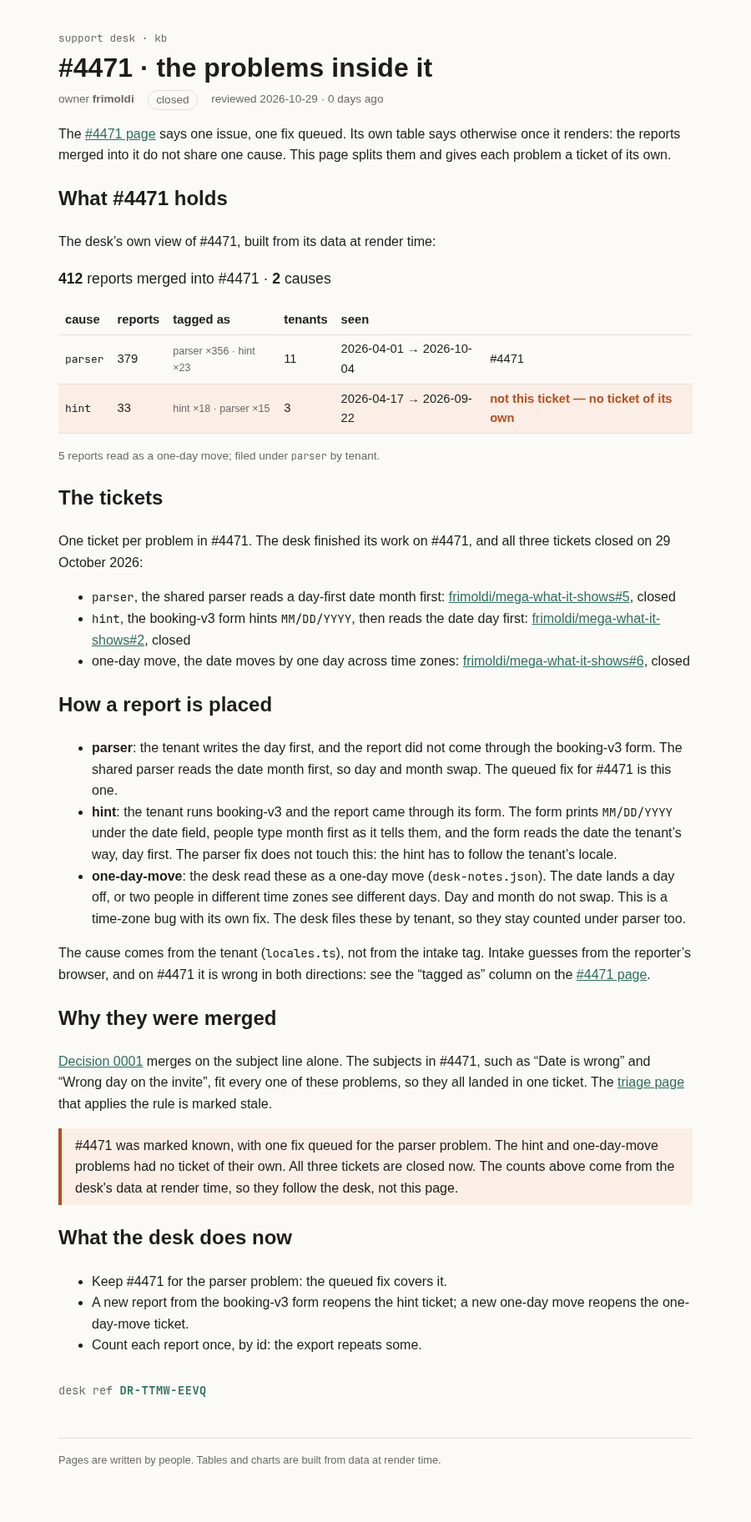
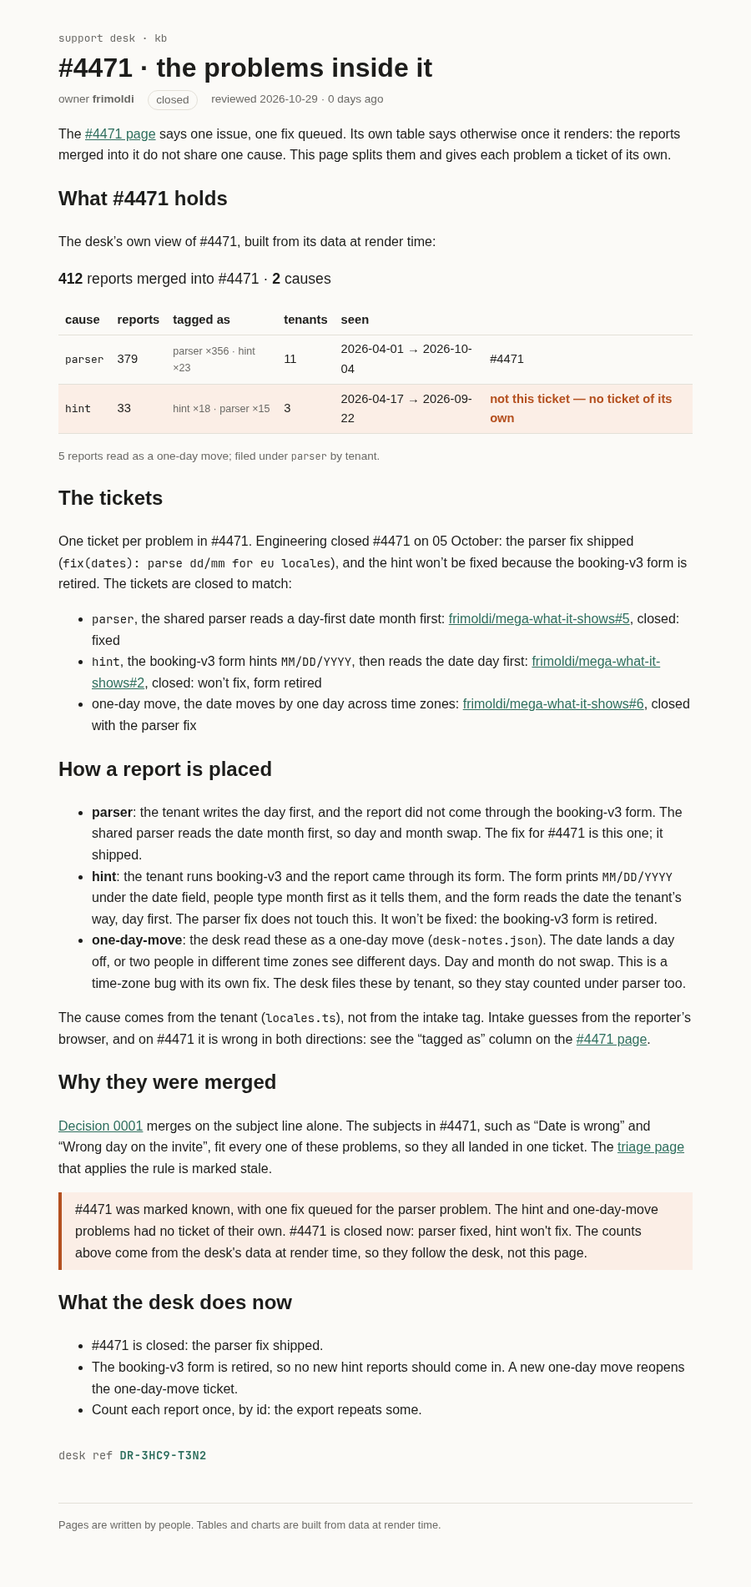
Sign the page with the course ticket; record the desk update
The page's signature is now the ticket the course issued, so its desk
ref changes to DR-3HC9-T3N2. The page records engineering's update:
#4471 closed 05 Oct, parser fixed, hint won't fix (booking-v3 form
retired). Rebuilt support-kb/build/ and rendered/.

Changed region(s): [[0.0622, 0.0312, 0.9022, 0.9682], [0.6533, 0.2186, 0.9022, 0.2811], [0.56, 0.2186, 0.6222, 0.2811]]

diff --git a/support-kb/build/kb/incidents/4471-problems/index.html b/support-kb/build/kb/incidents/4471-problems/index.html
@@ -9,11 +9,11 @@
 		<link href="../../../_app/immutable/chunks/B2Ul7l_u.js" rel="modulepreload">
 		<link href="../../../_app/immutable/chunks/BCPXOG7W.js" rel="modulepreload">
 		<link href="../../../_app/immutable/chunks/Dh1V97Jm.js" rel="modulepreload">
-		<link href="../../../_app/immutable/entry/app.l7u95bJy.js" rel="modulepreload">
+		<link href="../../../_app/immutable/entry/app.CHuWSfQY.js" rel="modulepreload">
 		<link href="../../../_app/immutable/nodes/0.BurGglGN.js" rel="modulepreload">
 		<link href="../../../_app/immutable/chunks/DK3Fl9T5.js" rel="modulepreload">
-		<link href="../../../_app/immutable/nodes/5.2zHYgrvD.js" rel="modulepreload">
-		<link href="../../../_app/immutable/chunks/DAiCEZpE.js" rel="modulepreload">
+		<link href="../../../_app/immutable/nodes/5.JyNISHoA.js" rel="modulepreload">
+		<link href="../../../_app/immutable/chunks/Cf7H7m81.js" rel="modulepreload">
 		<link href="../../../_app/immutable/chunks/BTPwLomz.js" rel="modulepreload">
 		<link href="../../../_app/immutable/chunks/D_eX76ox.js" rel="modulepreload">
 		<link href="../../../_app/immutable/chunks/BIy4WKJS.js" rel="modulepreload">
@@ -34,12 +34,13 @@ aside.svelte-17bri61{border-left:4px solid var(--accent);background:var(--note-b
   <body>
     <div style="display: contents"><!--[--><!--[--><!--[0--><!--[--><!--[--><!--[-1--><!--[--><div class="kb svelte-e2jw2j"><header><a class="crumb svelte-e2jw2j" href="/kb">support desk · kb</a> <h1 class="svelte-e2jw2j">#4471 · the problems inside it</h1> <p class="meta svelte-e2jw2j"><span>owner <b>frimoldi</b></span> <span class="status closed svelte-e2jw2j">closed</span> <span class="svelte-e2jw2j">reviewed 2026-10-29 · 0 days ago</span></p></header> <!--[-1--><!--]--> <main><p>The <a href="/kb/incidents/4471">#4471 page</a> says one issue, one fix queued. Its own table says
 otherwise once it renders: the reports merged into it do not share one cause. This page splits
-them and gives each problem a ticket of its own.</p> <h2>What #4471 holds</h2> <p>The desk’s own view of #4471, built from its data at render time:</p> <p class="sum svelte-12oyimm"><strong>412</strong> reports merged into #4471 · <strong>2</strong> causes</p> <table><thead><tr><th>cause</th><th>reports</th><th>tagged as</th><th>tenants</th><th>seen</th><th></th></tr></thead><tbody><!--[--><tr class="svelte-12oyimm"><td class="svelte-12oyimm"><code>parser</code></td><td class="svelte-12oyimm">379</td><td class="tags svelte-12oyimm">parser ×356 · hint ×23</td><td class="svelte-12oyimm">11</td><td class="svelte-12oyimm">2026-04-01 → 2026-10-04</td><td class="svelte-12oyimm">#4471</td></tr><tr class="svelte-12oyimm wrong"><td class="svelte-12oyimm"><code>hint</code></td><td class="svelte-12oyimm">33</td><td class="tags svelte-12oyimm">hint ×18 · parser ×15</td><td class="svelte-12oyimm">3</td><td class="svelte-12oyimm">2026-04-17 → 2026-09-22</td><td class="svelte-12oyimm">not this ticket — no ticket of its own</td></tr><!--]--></tbody></table> <!--[--><!--[0--><p class="note svelte-12oyimm">5 reports read as a one-day move; filed under <code>parser</code> by tenant.</p><!--]--><!--[-1--><!--]--><!--]--><!----> <h2>The tickets</h2> <p>One ticket per problem in #4471. The desk finished its work on #4471, and all three
-tickets closed on 29 October 2026:</p> <ul><li><code>parser</code>, the shared parser reads a day-first date month first: <a href="https://github.com/frimoldi/mega-what-it-shows/issues/5" rel="nofollow">frimoldi/mega-what-it-shows#5</a>, closed</li> <li><code>hint</code>, the booking-v3 form hints <code>MM/DD/YYYY</code>, then reads the date day first: <a href="https://github.com/frimoldi/mega-what-it-shows/issues/2" rel="nofollow">frimoldi/mega-what-it-shows#2</a>, closed</li> <li>one-day move, the date moves by one day across time zones: <a href="https://github.com/frimoldi/mega-what-it-shows/issues/6" rel="nofollow">frimoldi/mega-what-it-shows#6</a>, closed</li></ul> <h2>How a report is placed</h2> <ul><li><strong>parser</strong>: the tenant writes the day first, and the report did not come through the
+them and gives each problem a ticket of its own.</p> <h2>What #4471 holds</h2> <p>The desk’s own view of #4471, built from its data at render time:</p> <p class="sum svelte-12oyimm"><strong>412</strong> reports merged into #4471 · <strong>2</strong> causes</p> <table><thead><tr><th>cause</th><th>reports</th><th>tagged as</th><th>tenants</th><th>seen</th><th></th></tr></thead><tbody><!--[--><tr class="svelte-12oyimm"><td class="svelte-12oyimm"><code>parser</code></td><td class="svelte-12oyimm">379</td><td class="tags svelte-12oyimm">parser ×356 · hint ×23</td><td class="svelte-12oyimm">11</td><td class="svelte-12oyimm">2026-04-01 → 2026-10-04</td><td class="svelte-12oyimm">#4471</td></tr><tr class="svelte-12oyimm wrong"><td class="svelte-12oyimm"><code>hint</code></td><td class="svelte-12oyimm">33</td><td class="tags svelte-12oyimm">hint ×18 · parser ×15</td><td class="svelte-12oyimm">3</td><td class="svelte-12oyimm">2026-04-17 → 2026-09-22</td><td class="svelte-12oyimm">not this ticket — no ticket of its own</td></tr><!--]--></tbody></table> <!--[--><!--[0--><p class="note svelte-12oyimm">5 reports read as a one-day move; filed under <code>parser</code> by tenant.</p><!--]--><!--[-1--><!--]--><!--]--><!----> <h2>The tickets</h2> <p>One ticket per problem in #4471. Engineering closed #4471 on 05 October: the parser fix shipped
+(<code>fix(dates): parse dd/mm for eu locales</code>), and the hint won’t be fixed because the booking-v3
+form is retired. The tickets are closed to match:</p> <ul><li><code>parser</code>, the shared parser reads a day-first date month first: <a href="https://github.com/frimoldi/mega-what-it-shows/issues/5" rel="nofollow">frimoldi/mega-what-it-shows#5</a>, closed: fixed</li> <li><code>hint</code>, the booking-v3 form hints <code>MM/DD/YYYY</code>, then reads the date day first: <a href="https://github.com/frimoldi/mega-what-it-shows/issues/2" rel="nofollow">frimoldi/mega-what-it-shows#2</a>, closed: won’t fix, form retired</li> <li>one-day move, the date moves by one day across time zones: <a href="https://github.com/frimoldi/mega-what-it-shows/issues/6" rel="nofollow">frimoldi/mega-what-it-shows#6</a>, closed with the parser fix</li></ul> <h2>How a report is placed</h2> <ul><li><strong>parser</strong>: the tenant writes the day first, and the report did not come through the
 booking-v3 form. The shared parser reads the date month first, so day and month swap. The
-queued fix for #4471 is this one.</li> <li><strong>hint</strong>: the tenant runs booking-v3 and the report came through its form. The form prints <code>MM/DD/YYYY</code> under the date field, people type month first as it tells them, and the form
-reads the date the tenant’s way, day first. The parser fix does not touch this: the hint has
-to follow the tenant’s locale.</li> <li><strong>one-day-move</strong>: the desk read these as a one-day move (<code>desk-notes.json</code>). The date lands
+fix for #4471 is this one; it shipped.</li> <li><strong>hint</strong>: the tenant runs booking-v3 and the report came through its form. The form prints <code>MM/DD/YYYY</code> under the date field, people type month first as it tells them, and the form
+reads the date the tenant’s way, day first. The parser fix does not touch this. It won’t be
+fixed: the booking-v3 form is retired.</li> <li><strong>one-day-move</strong>: the desk read these as a one-day move (<code>desk-notes.json</code>). The date lands
 a day off, or two people in different time zones see different days. Day and month do not
 swap. This is a time-zone bug with its own fix. The desk files these by tenant, so they stay
 counted under parser too.</li></ul> <p>The cause comes from the tenant (<code>locales.ts</code>), not from the intake tag. Intake guesses from
@@ -48,22 +49,22 @@ column on the <a href="/kb/incidents/4471">#4471 page</a>.</p> <h2>Why they were
 subjects in #4471, such as “Date is wrong” and “Wrong day on the invite”, fit every one of
 these problems, so they all landed in one ticket. The <a href="/kb/triage/dedupe">triage page</a> that applies
 the rule is marked stale.</p> <aside class="warn svelte-17bri61"><!---->#4471 was marked known, with one fix queued for the parser problem. The hint and one-day-move
-problems had no ticket of their own. All three tickets are closed now. The counts above come
-from the desk's data at render time, so they follow the desk, not this page.<!----></aside><!----> <h2>What the desk does now</h2> <ul><li>Keep #4471 for the parser problem: the queued fix covers it.</li> <li>A new report from the booking-v3 form reopens the hint ticket; a new one-day move reopens the
-one-day-move ticket.</li> <li>Count each report once, by id: the export repeats some.</li></ul> <!--[0--><p class="stamp svelte-1280m42">desk ref <b class="svelte-1280m42">DR-TTMW-EEVQ</b></p><!--]--><!----><!----></main> <footer class="svelte-e2jw2j">Pages are written by people. Tables and charts are built from data at render time.</footer></div><!--]--><!--]--><!--]--><!----><!--]--><!--]--><!--]--><!----> <!--[-1--><!--]--><!--]-->
+problems had no ticket of their own. #4471 is closed now: parser fixed, hint won't fix. The
+counts above come from the desk's data at render time, so they follow the desk, not this page.<!----></aside><!----> <h2>What the desk does now</h2> <ul><li>#4471 is closed: the parser fix shipped.</li> <li>The booking-v3 form is retired, so no new hint reports should come in. A new one-day move
+reopens the one-day-move ticket.</li> <li>Count each report once, by id: the export repeats some.</li></ul> <!--[0--><p class="stamp svelte-1280m42">desk ref <b class="svelte-1280m42">DR-3HC9-T3N2</b></p><!--]--><!----><!----></main> <footer class="svelte-e2jw2j">Pages are written by people. Tables and charts are built from data at render time.</footer></div><!--]--><!--]--><!--]--><!----><!--]--><!--]--><!--]--><!----> <!--[-1--><!--]--><!--]-->
 			
 			<script>
 				{
-					__sveltekit_z9ygvl = {
+					__sveltekit_1bfk9to = {
 						base: new URL("../../..", location).pathname.slice(0, -1),
-						version: "1793269375051"
+						version: "1793270211310"
 					};
 
 					const element = document.currentScript.parentElement;
 
 					import("../../../_app/immutable/entry/start.CH5w6lId.js").then(async (kit) => {
-						kit.init(__sveltekit_z9ygvl);
-						const app = await import("../../../_app/immutable/entry/app.l7u95bJy.js");
+						kit.init(__sveltekit_1bfk9to);
+						const app = await import("../../../_app/immutable/entry/app.CHuWSfQY.js");
 						kit.start(app, element, {
 							node_ids: [0, 5],
 							data: [null,null],

diff --git a/rendered/4471-problems.html b/rendered/4471-problems.html
@@ -20,12 +20,13 @@ aside.svelte-17bri61{border-left:4px solid var(--accent);background:var(--note-b
   <body>
     <div style="display: contents"><!--[--><!--[--><!--[0--><!--[--><!--[--><!--[-1--><!--[--><div class="kb svelte-e2jw2j"><header><a class="crumb svelte-e2jw2j" href="/kb">support desk · kb</a> <h1 class="svelte-e2jw2j">#4471 · the problems inside it</h1> <p class="meta svelte-e2jw2j"><span>owner <b>frimoldi</b></span> <span class="status closed svelte-e2jw2j">closed</span> <span class="svelte-e2jw2j">reviewed 2026-10-29 · 0 days ago</span></p></header> <!--[-1--><!--]--> <main><p>The <a href="/kb/incidents/4471">#4471 page</a> says one issue, one fix queued. Its own table says
 otherwise once it renders: the reports merged into it do not share one cause. This page splits
-them and gives each problem a ticket of its own.</p> <h2>What #4471 holds</h2> <p>The desk’s own view of #4471, built from its data at render time:</p> <p class="sum svelte-12oyimm"><strong>412</strong> reports merged into #4471 · <strong>2</strong> causes</p> <table><thead><tr><th>cause</th><th>reports</th><th>tagged as</th><th>tenants</th><th>seen</th><th></th></tr></thead><tbody><!--[--><tr class="svelte-12oyimm"><td class="svelte-12oyimm"><code>parser</code></td><td class="svelte-12oyimm">379</td><td class="tags svelte-12oyimm">parser ×356 · hint ×23</td><td class="svelte-12oyimm">11</td><td class="svelte-12oyimm">2026-04-01 → 2026-10-04</td><td class="svelte-12oyimm">#4471</td></tr><tr class="svelte-12oyimm wrong"><td class="svelte-12oyimm"><code>hint</code></td><td class="svelte-12oyimm">33</td><td class="tags svelte-12oyimm">hint ×18 · parser ×15</td><td class="svelte-12oyimm">3</td><td class="svelte-12oyimm">2026-04-17 → 2026-09-22</td><td class="svelte-12oyimm">not this ticket — no ticket of its own</td></tr><!--]--></tbody></table> <!--[--><!--[0--><p class="note svelte-12oyimm">5 reports read as a one-day move; filed under <code>parser</code> by tenant.</p><!--]--><!--[-1--><!--]--><!--]--><!----> <h2>The tickets</h2> <p>One ticket per problem in #4471. The desk finished its work on #4471, and all three
-tickets closed on 29 October 2026:</p> <ul><li><code>parser</code>, the shared parser reads a day-first date month first: <a href="https://github.com/frimoldi/mega-what-it-shows/issues/5" rel="nofollow">frimoldi/mega-what-it-shows#5</a>, closed</li> <li><code>hint</code>, the booking-v3 form hints <code>MM/DD/YYYY</code>, then reads the date day first: <a href="https://github.com/frimoldi/mega-what-it-shows/issues/2" rel="nofollow">frimoldi/mega-what-it-shows#2</a>, closed</li> <li>one-day move, the date moves by one day across time zones: <a href="https://github.com/frimoldi/mega-what-it-shows/issues/6" rel="nofollow">frimoldi/mega-what-it-shows#6</a>, closed</li></ul> <h2>How a report is placed</h2> <ul><li><strong>parser</strong>: the tenant writes the day first, and the report did not come through the
+them and gives each problem a ticket of its own.</p> <h2>What #4471 holds</h2> <p>The desk’s own view of #4471, built from its data at render time:</p> <p class="sum svelte-12oyimm"><strong>412</strong> reports merged into #4471 · <strong>2</strong> causes</p> <table><thead><tr><th>cause</th><th>reports</th><th>tagged as</th><th>tenants</th><th>seen</th><th></th></tr></thead><tbody><!--[--><tr class="svelte-12oyimm"><td class="svelte-12oyimm"><code>parser</code></td><td class="svelte-12oyimm">379</td><td class="tags svelte-12oyimm">parser ×356 · hint ×23</td><td class="svelte-12oyimm">11</td><td class="svelte-12oyimm">2026-04-01 → 2026-10-04</td><td class="svelte-12oyimm">#4471</td></tr><tr class="svelte-12oyimm wrong"><td class="svelte-12oyimm"><code>hint</code></td><td class="svelte-12oyimm">33</td><td class="tags svelte-12oyimm">hint ×18 · parser ×15</td><td class="svelte-12oyimm">3</td><td class="svelte-12oyimm">2026-04-17 → 2026-09-22</td><td class="svelte-12oyimm">not this ticket — no ticket of its own</td></tr><!--]--></tbody></table> <!--[--><!--[0--><p class="note svelte-12oyimm">5 reports read as a one-day move; filed under <code>parser</code> by tenant.</p><!--]--><!--[-1--><!--]--><!--]--><!----> <h2>The tickets</h2> <p>One ticket per problem in #4471. Engineering closed #4471 on 05 October: the parser fix shipped
+(<code>fix(dates): parse dd/mm for eu locales</code>), and the hint won’t be fixed because the booking-v3
+form is retired. The tickets are closed to match:</p> <ul><li><code>parser</code>, the shared parser reads a day-first date month first: <a href="https://github.com/frimoldi/mega-what-it-shows/issues/5" rel="nofollow">frimoldi/mega-what-it-shows#5</a>, closed: fixed</li> <li><code>hint</code>, the booking-v3 form hints <code>MM/DD/YYYY</code>, then reads the date day first: <a href="https://github.com/frimoldi/mega-what-it-shows/issues/2" rel="nofollow">frimoldi/mega-what-it-shows#2</a>, closed: won’t fix, form retired</li> <li>one-day move, the date moves by one day across time zones: <a href="https://github.com/frimoldi/mega-what-it-shows/issues/6" rel="nofollow">frimoldi/mega-what-it-shows#6</a>, closed with the parser fix</li></ul> <h2>How a report is placed</h2> <ul><li><strong>parser</strong>: the tenant writes the day first, and the report did not come through the
 booking-v3 form. The shared parser reads the date month first, so day and month swap. The
-queued fix for #4471 is this one.</li> <li><strong>hint</strong>: the tenant runs booking-v3 and the report came through its form. The form prints <code>MM/DD/YYYY</code> under the date field, people type month first as it tells them, and the form
-reads the date the tenant’s way, day first. The parser fix does not touch this: the hint has
-to follow the tenant’s locale.</li> <li><strong>one-day-move</strong>: the desk read these as a one-day move (<code>desk-notes.json</code>). The date lands
+fix for #4471 is this one; it shipped.</li> <li><strong>hint</strong>: the tenant runs booking-v3 and the report came through its form. The form prints <code>MM/DD/YYYY</code> under the date field, people type month first as it tells them, and the form
+reads the date the tenant’s way, day first. The parser fix does not touch this. It won’t be
+fixed: the booking-v3 form is retired.</li> <li><strong>one-day-move</strong>: the desk read these as a one-day move (<code>desk-notes.json</code>). The date lands
 a day off, or two people in different time zones see different days. Day and month do not
 swap. This is a time-zone bug with its own fix. The desk files these by tenant, so they stay
 counted under parser too.</li></ul> <p>The cause comes from the tenant (<code>locales.ts</code>), not from the intake tag. Intake guesses from
@@ -34,9 +35,9 @@ column on the <a href="/kb/incidents/4471">#4471 page</a>.</p> <h2>Why they were
 subjects in #4471, such as “Date is wrong” and “Wrong day on the invite”, fit every one of
 these problems, so they all landed in one ticket. The <a href="/kb/triage/dedupe">triage page</a> that applies
 the rule is marked stale.</p> <aside class="warn svelte-17bri61"><!---->#4471 was marked known, with one fix queued for the parser problem. The hint and one-day-move
-problems had no ticket of their own. All three tickets are closed now. The counts above come
-from the desk's data at render time, so they follow the desk, not this page.<!----></aside><!----> <h2>What the desk does now</h2> <ul><li>Keep #4471 for the parser problem: the queued fix covers it.</li> <li>A new report from the booking-v3 form reopens the hint ticket; a new one-day move reopens the
-one-day-move ticket.</li> <li>Count each report once, by id: the export repeats some.</li></ul> <!--[0--><p class="stamp svelte-1280m42">desk ref <b class="svelte-1280m42">DR-TTMW-EEVQ</b></p><!--]--><!----><!----></main> <footer class="svelte-e2jw2j">Pages are written by people. Tables and charts are built from data at render time.</footer></div><!--]--><!--]--><!--]--><!----><!--]--><!--]--><!--]--><!----> <!--[-1--><!--]--><!--]-->
+problems had no ticket of their own. #4471 is closed now: parser fixed, hint won't fix. The
+counts above come from the desk's data at render time, so they follow the desk, not this page.<!----></aside><!----> <h2>What the desk does now</h2> <ul><li>#4471 is closed: the parser fix shipped.</li> <li>The booking-v3 form is retired, so no new hint reports should come in. A new one-day move
+reopens the one-day-move ticket.</li> <li>Count each report once, by id: the export repeats some.</li></ul> <!--[0--><p class="stamp svelte-1280m42">desk ref <b class="svelte-1280m42">DR-3HC9-T3N2</b></p><!--]--><!----><!----></main> <footer class="svelte-e2jw2j">Pages are written by people. Tables and charts are built from data at render time.</footer></div><!--]--><!--]--><!--]--><!----><!--]--><!--]--><!--]--><!----> <!--[-1--><!--]--><!--]-->
 			
 			
 		</div>

diff --git a/support-kb/build/_app/immutable/chunks/Cf7H7m81.js b/support-kb/build/_app/immutable/chunks/Cf7H7m81.js
@@ -1,0 +1,20 @@
+import{t as e}from"./DK3Fl9T5.js";import{E as t,F as n,H as r,I as i,K as a,L as o,N as s,O as c,R as l,S as u,T as d,U as f,W as p,_ as m,k as h,q as g,r as _,t as v,w as y}from"./BCPXOG7W.js";import{t as b}from"./BTPwLomz.js";import{t as x}from"./D_eX76ox.js";import{t as S}from"./BIy4WKJS.js";var C=`0123456789ABCDEFGHJKMNPQRSTVWXYZ`;function w(e,t){let n=t>>>0;for(let t=0;t<e.length;t++)n^=e.charCodeAt(t),n=Math.imul(n,16777619)>>>0;return n}function T(e){let t=e.trim(),n=w(t,2166136261),r=w(t,2654435769),i=BigInt(n)<<8n|BigInt(r&255),a=``;for(let e=0;e<8;e++)a=C[Number(i&31n)]+a,i>>=5n;return`DR-${a.slice(0,4)}-${a.slice(4)}`}var E=t(`<p class="stamp svelte-1280m42">desk ref <b class="svelte-1280m42"> </b></p>`),D=t(`<p class="stamp missing svelte-1280m42">no desk ref: this page isn't signed (no <code>signature</code> in its frontmatter)</p>`);function O(e,t){p(t,!0);let a=r(()=>t.signature?T(t.signature):null);var c=d(),_=i(c),v=e=>{var t=E(),r=l(n(t)),i=o(r,!0);g(t),s(()=>u(i,h(a))),y(e,t)},b=e=>{var t=D();y(e,t)};m(_,e=>{h(a)?e(v):e(b,-1)}),y(e,c),f()}var k=e({default:()=>R,metadata:()=>A}),A={layout:`runbook`,title:`#4471 · the problems inside it`,owner:`frimoldi`,status:`closed`,reviewed:`2026-10-29T00:00:00.000Z`,signature:`v1.eyJzdWIiOiI3MDUiLCJhdWQiOiJjaGFsbGVuZ2U6d2hhdC1pdC1zaG93cyIsImlhdCI6MTc5MzI3MDExNCwiZXhwIjoxNzkzMzU2NTE0fQ.2HE2zUbsrpFqRrAgXexTau2YYkIPmU9FLSkyUEox5gQ`},{layout:j,title:M,owner:N,status:P,reviewed:F,signature:I}=A,L=t(`<p>The <a href="/kb/incidents/4471">#4471 page</a> says one issue, one fix queued. Its own table says
+otherwise once it renders: the reports merged into it do not share one cause. This page splits
+them and gives each problem a ticket of its own.</p> <h2>What #4471 holds</h2> <p>The desk’s own view of #4471, built from its data at render time:</p> <!> <h2>The tickets</h2> <p>One ticket per problem in #4471. Engineering closed #4471 on 05 October: the parser fix shipped
+(<code>fix(dates): parse dd/mm for eu locales</code>), and the hint won’t be fixed because the booking-v3
+form is retired. The tickets are closed to match:</p> <ul><li><code>parser</code>, the shared parser reads a day-first date month first: <a href="https://github.com/frimoldi/mega-what-it-shows/issues/5" rel="nofollow">frimoldi/mega-what-it-shows#5</a>, closed: fixed</li> <li><code>hint</code>, the booking-v3 form hints <code>MM/DD/YYYY</code>, then reads the date day first: <a href="https://github.com/frimoldi/mega-what-it-shows/issues/2" rel="nofollow">frimoldi/mega-what-it-shows#2</a>, closed: won’t fix, form retired</li> <li>one-day move, the date moves by one day across time zones: <a href="https://github.com/frimoldi/mega-what-it-shows/issues/6" rel="nofollow">frimoldi/mega-what-it-shows#6</a>, closed with the parser fix</li></ul> <h2>How a report is placed</h2> <ul><li><strong>parser</strong>: the tenant writes the day first, and the report did not come through the
+booking-v3 form. The shared parser reads the date month first, so day and month swap. The
+fix for #4471 is this one; it shipped.</li> <li><strong>hint</strong>: the tenant runs booking-v3 and the report came through its form. The form prints <code>MM/DD/YYYY</code> under the date field, people type month first as it tells them, and the form
+reads the date the tenant’s way, day first. The parser fix does not touch this. It won’t be
+fixed: the booking-v3 form is retired.</li> <li><strong>one-day-move</strong>: the desk read these as a one-day move (<code>desk-notes.json</code>). The date lands
+a day off, or two people in different time zones see different days. Day and month do not
+swap. This is a time-zone bug with its own fix. The desk files these by tenant, so they stay
+counted under parser too.</li></ul> <p>The cause comes from the tenant (<code>locales.ts</code>), not from the intake tag. Intake guesses from
+the reporter’s browser, and on #4471 it is wrong in both directions: see the “tagged as”
+column on the <a href="/kb/incidents/4471">#4471 page</a>.</p> <h2>Why they were merged</h2> <p><a href="/kb/decisions/0001-dedupe-by-subject">Decision 0001</a> merges on the subject line alone. The
+subjects in #4471, such as “Date is wrong” and “Wrong day on the invite”, fit every one of
+these problems, so they all landed in one ticket. The <a href="/kb/triage/dedupe">triage page</a> that applies
+the rule is marked stale.</p> <!> <h2>What the desk does now</h2> <ul><li>#4471 is closed: the parser fix shipped.</li> <li>The booking-v3 form is retired, so no new hint reports should come in. A new one-day move
+reopens the one-day-move ticket.</li> <li>Count each report once, by id: the export repeats some.</li></ul> <!>`,1);function R(e,t){let n=v(t,[`children`,`$$slots`,`$$events`,`$$legacy`]);b(e,_(()=>n,()=>A,{children:(e,t)=>{var n=L(),r=l(i(n),6);x(r,{ticket:4471});var o=l(r,18);S(o,{kind:`warn`,children:(e,t)=>{a();var n=c(`#4471 was marked known, with one fix queued for the parser problem. The hint and one-day-move
+problems had no ticket of their own. #4471 is closed now: parser fixed, hint won't fix. The
+counts above come from the desk's data at render time, so they follow the desk, not this page.`);y(e,n)},$$slots:{default:!0}}),O(l(o,6),{get signature(){return I}}),y(e,n)},$$slots:{default:!0}}))}export{R as n,k as t};

diff --git a/support-kb/build/kb/index.html b/support-kb/build/kb/index.html
@@ -9,16 +9,16 @@
 		<link href="../_app/immutable/chunks/B2Ul7l_u.js" rel="modulepreload">
 		<link href="../_app/immutable/chunks/BCPXOG7W.js" rel="modulepreload">
 		<link href="../_app/immutable/chunks/Dh1V97Jm.js" rel="modulepreload">
-		<link href="../_app/immutable/entry/app.l7u95bJy.js" rel="modulepreload">
+		<link href="../_app/immutable/entry/app.CHuWSfQY.js" rel="modulepreload">
 		<link href="../_app/immutable/nodes/0.BurGglGN.js" rel="modulepreload">
 		<link href="../_app/immutable/chunks/DK3Fl9T5.js" rel="modulepreload">
-		<link href="../_app/immutable/nodes/2.Dfoj3QTw.js" rel="modulepreload">
+		<link href="../_app/immutable/nodes/2.DTm_MG20.js" rel="modulepreload">
 		<link href="../_app/immutable/chunks/BTPwLomz.js" rel="modulepreload">
 		<link href="../_app/immutable/chunks/YX22L_Ud.js" rel="modulepreload">
 		<link href="../_app/immutable/chunks/C7NBqcQG.js" rel="modulepreload">
 		<link href="../_app/immutable/chunks/D_eX76ox.js" rel="modulepreload">
 		<link href="../_app/immutable/chunks/BIy4WKJS.js" rel="modulepreload">
-		<link href="../_app/immutable/chunks/DAiCEZpE.js" rel="modulepreload">
+		<link href="../_app/immutable/chunks/Cf7H7m81.js" rel="modulepreload">
 		<link href="../_app/immutable/chunks/BGqJVSDw.js" rel="modulepreload">
 		<!--e2jw2j--><!----><title>Support knowledge base · support kb</title>
 		<style>:root{--bg:#fbfaf7;--fg:#1d1d1b;--muted:#6b6a66;--line:#e3e0d8;--accent:#2f6f5e;--warn:#b4501f;--warn-bg:#fbeee6;--note-bg:#eef5f2;--mono:ui-monospace, "Cascadia Code", Menlo, monospace}@media (prefers-color-scheme:dark){:root{--bg:#171716;--fg:#ecebe6;--muted:#9c9a93;--line:#34332f;--accent:#6fbfa6;--warn:#f0905d;--warn-bg:#3a2418;--note-bg:#1d2c27}}body{background:var(--bg);color:var(--fg);margin:0;font:16px/1.6 system-ui,sans-serif}.kb table{border-collapse:collapse;width:100%;margin:1rem 0;font-size:.92rem}.kb th,.kb td{border-bottom:1px solid var(--line);text-align:left;padding:.35rem .5rem}.kb code{font-family:var(--mono);font-size:.88em}.kb a{color:var(--accent)}.kb.svelte-e2jw2j{max-width:760px;margin:0 auto;padding:2rem 16px 4rem}.crumb.svelte-e2jw2j{font:.8rem var(--mono);color:var(--muted);text-decoration:none}h1.svelte-e2jw2j{margin:.25rem 0 .5rem;line-height:1.2}.meta.svelte-e2jw2j{color:var(--muted);flex-wrap:wrap;gap:.5rem 1rem;margin:0;font-size:.85rem;display:flex}.status.svelte-e2jw2j{border:1px solid var(--line);border-radius:99px;padding:0 .6rem}.stale.svelte-e2jw2j{color:var(--warn);font-weight:600}.banner.svelte-e2jw2j{background:var(--warn-bg);color:var(--warn);border-radius:6px;padding:.6rem 1rem}footer.svelte-e2jw2j{color:var(--muted);border-top:1px solid var(--line);margin-top:3rem;padding-top:1rem;font-size:.8rem}
@@ -49,16 +49,16 @@ computed by a component, not typed into a paragraph.</p><!----></main> <footer c
 			
 			<script>
 				{
-					__sveltekit_z9ygvl = {
+					__sveltekit_1bfk9to = {
 						base: new URL("..", location).pathname.slice(0, -1),
-						version: "1793269375051"
+						version: "1793270211310"
 					};
 
 					const element = document.currentScript.parentElement;
 
 					import("../_app/immutable/entry/start.CH5w6lId.js").then(async (kit) => {
-						kit.init(__sveltekit_z9ygvl);
-						const app = await import("../_app/immutable/entry/app.l7u95bJy.js");
+						kit.init(__sveltekit_1bfk9to);
+						const app = await import("../_app/immutable/entry/app.CHuWSfQY.js");
 						kit.start(app, element, {
 							node_ids: [0, 2],
 							data: [null,null],

diff --git a/support-kb/build/_app/immutable/nodes/2.DTm_MG20.js b/support-kb/build/_app/immutable/nodes/2.DTm_MG20.js
@@ -1,0 +1,2 @@
+import{E as e,F as t,I as n,K as r,L as i,N as a,R as o,S as s,U as c,W as l,c as u,d,h as f,i as p,k as m,q as h,r as g,t as _,w as v}from"../chunks/BCPXOG7W.js";import{n as y,r as b,t as x}from"../chunks/BTPwLomz.js";import{t as S}from"../chunks/YX22L_Ud.js";import{t as C}from"../chunks/C7NBqcQG.js";import{t as w}from"../chunks/Cf7H7m81.js";import{t as T}from"../chunks/BGqJVSDw.js";var E=e(`<tr><td><a> </a></td><td> </td><td> </td><td> </td></tr>`),D=e(`<table><thead><tr><th>page</th><th>owner</th><th>status</th><th>reviewed</th></tr></thead><tbody></tbody></table>`);function O(e,n){l(n,!1);let r=Object.entries(Object.assign({"/src/routes/kb/decisions/0001-dedupe-by-subject/+page.svx":S,"/src/routes/kb/incidents/4471/+page.svx":C,"/src/routes/kb/incidents/4471-problems/+page.svx":w,"/src/routes/kb/triage/dedupe/+page.svx":T})).map(([e,t])=>({href:e.replace(`/src/routes`,``).replace(`/+page.svx`,``),...t.metadata})).sort((e,t)=>e.href.localeCompare(t.href));p();var g=D(),_=o(t(g));f(_,5,()=>r,e=>e.href,(e,n)=>{var r=E(),c=t(r),l=t(c),f=i(l,!0);h(c);var p=o(c),g=i(p,!0),_=o(p),x=i(_,!0),S=o(_);let C;var w=i(S,!0);h(r),a((e,t)=>{u(l,`href`,m(n).href),s(f,m(n).title),s(g,m(n).owner),s(x,m(n).status),C=d(S,1,`svelte-tbc1ha`,null,C,{stale:e}),s(w,t)},[()=>y(m(n).reviewed)>180,()=>b(m(n).reviewed)]),v(e,r)}),h(_),h(g),v(e,g),c()}var k={layout:`runbook`,title:`Support knowledge base`,owner:`support desk`,status:`living`,reviewed:`2026-09-28T00:00:00.000Z`},{layout:A,title:j,owner:M,status:N,reviewed:P}=k,F=e(`<p>What the support desk knows, kept next to the code that knows it. One desk, every product: <code>sched-prod</code> (calendar invites for about 300k people) and the rest. When something breaks, the reports land here first.</p> <p>Start with <a href="/kb/triage/dedupe">triage</a> if you are new on the desk.</p> <h2>Pages</h2> <!> <h2>Writing a page</h2> <p>Keep the words here and the logic in <code>src/lib</code>. A number that can be computed should be
+computed by a component, not typed into a paragraph.</p>`,1);function I(e,t){let i=_(t,[`children`,`$$slots`,`$$events`,`$$legacy`]);x(e,g(()=>i,()=>k,{children:(e,t)=>{var i=F();O(o(n(i),6),{}),r(4),v(e,i)},$$slots:{default:!0}}))}export{I as component};

diff --git a/support-kb/build/_app/immutable/entry/app.CHuWSfQY.js b/support-kb/build/_app/immutable/entry/app.CHuWSfQY.js
@@ -1,0 +1,2 @@
+const __vite__mapDeps=(i,m=__vite__mapDeps,d=(m.f||(m.f=["../nodes/0.BurGglGN.js","../chunks/DK3Fl9T5.js","../chunks/BCPXOG7W.js","../nodes/1.mOwa9YdW.js","../chunks/Dh1V97Jm.js","./payload.DSmR2FwN.js","../nodes/2.DTm_MG20.js","../chunks/BTPwLomz.js","../assets/runbook.COyw0cbZ.css","../chunks/YX22L_Ud.js","../chunks/C7NBqcQG.js","../chunks/D_eX76ox.js","../chunks/BIy4WKJS.js","../assets/Callout.AbLv9dM_.css","../assets/CauseTable.DuKfINX_.css","../assets/_page.BwRNheVv.css","../chunks/Cf7H7m81.js","../assets/_page.WePi3wDe.css","../chunks/BGqJVSDw.js","../assets/_page.DO6Yid7X.css","../assets/2.Bt0MwIZg.css","../nodes/3.DRxPfvn3.js","../nodes/4.r04HXAAh.js","../nodes/5.JyNISHoA.js","../nodes/6.sFtxrtyV.js"])))=>i.map(i=>d[i]);
+import{t as e}from"../chunks/CRzLMJPS.js";var t={},n=[()=>e(()=>import(`../nodes/0.BurGglGN.js`),__vite__mapDeps([0,1,2]),import.meta.url),()=>e(()=>import(`../nodes/1.mOwa9YdW.js`),__vite__mapDeps([3,2,4,5]),import.meta.url),()=>e(()=>import(`../nodes/2.DTm_MG20.js`),__vite__mapDeps([6,2,7,8,9,1,10,11,12,13,14,15,16,17,18,19,20]),import.meta.url),()=>e(()=>import(`../nodes/3.DRxPfvn3.js`),__vite__mapDeps([21,9,1,2,7,8]),import.meta.url),()=>e(()=>import(`../nodes/4.r04HXAAh.js`),__vite__mapDeps([22,10,1,2,7,8,11,12,13,14,15]),import.meta.url),()=>e(()=>import(`../nodes/5.JyNISHoA.js`),__vite__mapDeps([23,16,1,2,7,8,11,12,13,14,17]),import.meta.url),()=>e(()=>import(`../nodes/6.sFtxrtyV.js`),__vite__mapDeps([24,18,1,2,7,8,12,13,19]),import.meta.url)],r=[],i={"/kb":[2],"/kb/decisions/0001-dedupe-by-subject":[3],"/kb/incidents/4471-problems":[5],"/kb/incidents/4471":[4],"/kb/triage/dedupe":[6]},a={handleError:(({kind:e,error:t})=>{e===`unknown`&&console.error(t)}),reroute:(()=>{}),transport:{}},o=Object.fromEntries(Object.entries(a.transport).map(([e,t])=>[e,t.decode])),s=Object.fromEntries(Object.entries(a.transport).map(([e,t])=>[e,t.encode])),c=!1,l=(e,t)=>o[e](t),u=()=>e(()=>import(`../chunks/Bjy-W4x2.js`).then(e=>e.default),[],import.meta.url);export{l as decode,o as decoders,i as dictionary,s as encoders,u as get_error_template,c as hash,a as hooks,t as matchers,n as nodes,r as server_loads};

diff --git a/support-kb/build/kb/decisions/0001-dedupe-by-subject/index.html b/support-kb/build/kb/decisions/0001-dedupe-by-subject/index.html
@@ -9,7 +9,7 @@
 		<link href="../../../_app/immutable/chunks/B2Ul7l_u.js" rel="modulepreload">
 		<link href="../../../_app/immutable/chunks/BCPXOG7W.js" rel="modulepreload">
 		<link href="../../../_app/immutable/chunks/Dh1V97Jm.js" rel="modulepreload">
-		<link href="../../../_app/immutable/entry/app.l7u95bJy.js" rel="modulepreload">
+		<link href="../../../_app/immutable/entry/app.CHuWSfQY.js" rel="modulepreload">
 		<link href="../../../_app/immutable/nodes/0.BurGglGN.js" rel="modulepreload">
 		<link href="../../../_app/immutable/chunks/DK3Fl9T5.js" rel="modulepreload">
 		<link href="../../../_app/immutable/nodes/3.DRxPfvn3.js" rel="modulepreload">
@@ -28,16 +28,16 @@ engineering merges them later.</li></ul><!----></main> <footer class="svelte-e2j
 			
 			<script>
 				{
-					__sveltekit_z9ygvl = {
+					__sveltekit_1bfk9to = {
 						base: new URL("../../..", location).pathname.slice(0, -1),
-						version: "1793269375051"
+						version: "1793270211310"
 					};
 
 					const element = document.currentScript.parentElement;
 
 					import("../../../_app/immutable/entry/start.CH5w6lId.js").then(async (kit) => {
-						kit.init(__sveltekit_z9ygvl);
-						const app = await import("../../../_app/immutable/entry/app.l7u95bJy.js");
+						kit.init(__sveltekit_1bfk9to);
+						const app = await import("../../../_app/immutable/entry/app.CHuWSfQY.js");
 						kit.start(app, element, {
 							node_ids: [0, 3],
 							data: [null,null],

diff --git a/support-kb/build/kb/incidents/4471/index.html b/support-kb/build/kb/incidents/4471/index.html
@@ -9,7 +9,7 @@
 		<link href="../../../_app/immutable/chunks/B2Ul7l_u.js" rel="modulepreload">
 		<link href="../../../_app/immutable/chunks/BCPXOG7W.js" rel="modulepreload">
 		<link href="../../../_app/immutable/chunks/Dh1V97Jm.js" rel="modulepreload">
-		<link href="../../../_app/immutable/entry/app.l7u95bJy.js" rel="modulepreload">
+		<link href="../../../_app/immutable/entry/app.CHuWSfQY.js" rel="modulepreload">
 		<link href="../../../_app/immutable/nodes/0.BurGglGN.js" rel="modulepreload">
 		<link href="../../../_app/immutable/chunks/DK3Fl9T5.js" rel="modulepreload">
 		<link href="../../../_app/immutable/nodes/4.r04HXAAh.js" rel="modulepreload">
@@ -38,16 +38,16 @@ first. The fix is queued.</p> <aside class="note svelte-17bri61"><!---->Known. O
 			
 			<script>
 				{
-					__sveltekit_z9ygvl = {
+					__sveltekit_1bfk9to = {
 						base: new URL("../../..", location).pathname.slice(0, -1),
-						version: "1793269375051"
+						version: "1793270211310"
 					};
 
 					const element = document.currentScript.parentElement;
 
 					import("../../../_app/immutable/entry/start.CH5w6lId.js").then(async (kit) => {
-						kit.init(__sveltekit_z9ygvl);
-						const app = await import("../../../_app/immutable/entry/app.l7u95bJy.js");
+						kit.init(__sveltekit_1bfk9to);
+						const app = await import("../../../_app/immutable/entry/app.CHuWSfQY.js");
 						kit.start(app, element, {
 							node_ids: [0, 4],
 							data: [null,null],

diff --git a/support-kb/build/kb/triage/dedupe/index.html b/support-kb/build/kb/triage/dedupe/index.html
@@ -9,7 +9,7 @@
 		<link href="../../../_app/immutable/chunks/B2Ul7l_u.js" rel="modulepreload">
 		<link href="../../../_app/immutable/chunks/BCPXOG7W.js" rel="modulepreload">
 		<link href="../../../_app/immutable/chunks/Dh1V97Jm.js" rel="modulepreload">
-		<link href="../../../_app/immutable/entry/app.l7u95bJy.js" rel="modulepreload">
+		<link href="../../../_app/immutable/entry/app.CHuWSfQY.js" rel="modulepreload">
 		<link href="../../../_app/immutable/nodes/0.BurGglGN.js" rel="modulepreload">
 		<link href="../../../_app/immutable/chunks/DK3Fl9T5.js" rel="modulepreload">
 		<link href="../../../_app/immutable/nodes/6.sFtxrtyV.js" rel="modulepreload">
@@ -35,16 +35,16 @@ anything else.<!----></aside><!----> <h2>Try it</h2> <div class="try svelte-gq0h
 			
 			<script>
 				{
-					__sveltekit_z9ygvl = {
+					__sveltekit_1bfk9to = {
 						base: new URL("../../..", location).pathname.slice(0, -1),
-						version: "1793269375051"
+						version: "1793270211310"
 					};
 
 					const element = document.currentScript.parentElement;
 
 					import("../../../_app/immutable/entry/start.CH5w6lId.js").then(async (kit) => {
-						kit.init(__sveltekit_z9ygvl);
-						const app = await import("../../../_app/immutable/entry/app.l7u95bJy.js");
+						kit.init(__sveltekit_1bfk9to);
+						const app = await import("../../../_app/immutable/entry/app.CHuWSfQY.js");
 						kit.start(app, element, {
 							node_ids: [0, 6],
 							data: [null,null],

diff --git a/support-kb/build/_app/immutable/nodes/5.JyNISHoA.js b/support-kb/build/_app/immutable/nodes/5.JyNISHoA.js
@@ -1,0 +1,1 @@
+export{n as component}from"../chunks/Cf7H7m81.js";

diff --git a/README.md b/README.md
@@ -1,6 +1,6 @@
 # What #4471 holds
 
-This repo holds the support desk's kb export in `support-kb/`, as exported, with one page added: [`support-kb/src/routes/kb/incidents/4471-problems/+page.svx`](support-kb/src/routes/kb/incidents/4471-problems/+page.svx), signed `frimoldi` (desk ref `DR-TTMW-EEVQ`).
+This repo holds the support desk's kb export in `support-kb/`, as exported, with one page added: [`support-kb/src/routes/kb/incidents/4471-problems/+page.svx`](support-kb/src/routes/kb/incidents/4471-problems/+page.svx), signed with the course's signature ticket (desk ref `DR-3HC9-T3N2`).
 
 The desk merged 412 reports about dates into ticket `#4471` and marked it known. The desk's own cause table for #4471 shows more than one problem. Each has an issue here:
 
